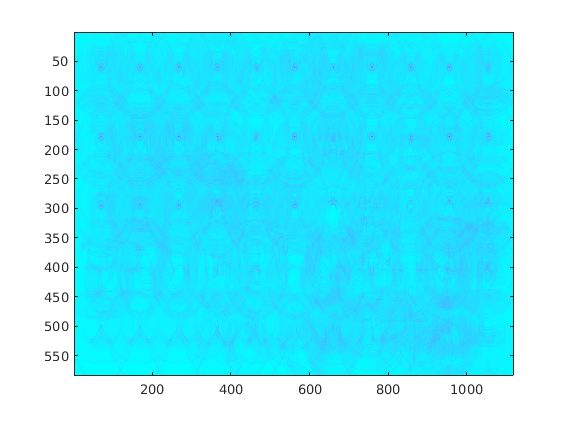
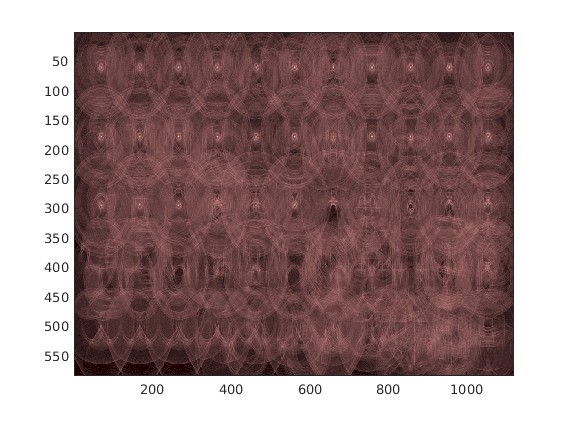
better vis

diff --git a/detectCircles.m b/detectCircles.m
@@ -21,7 +21,7 @@ function [centers] = detectCircles(im, radius)
 
   % Uncomment to print the Hough voting space.
   figure
-  colormap cool
+  colormap pink
   imagesc(H)
   print('images/hough_space.png', '-dpng', '-r0')
   close
